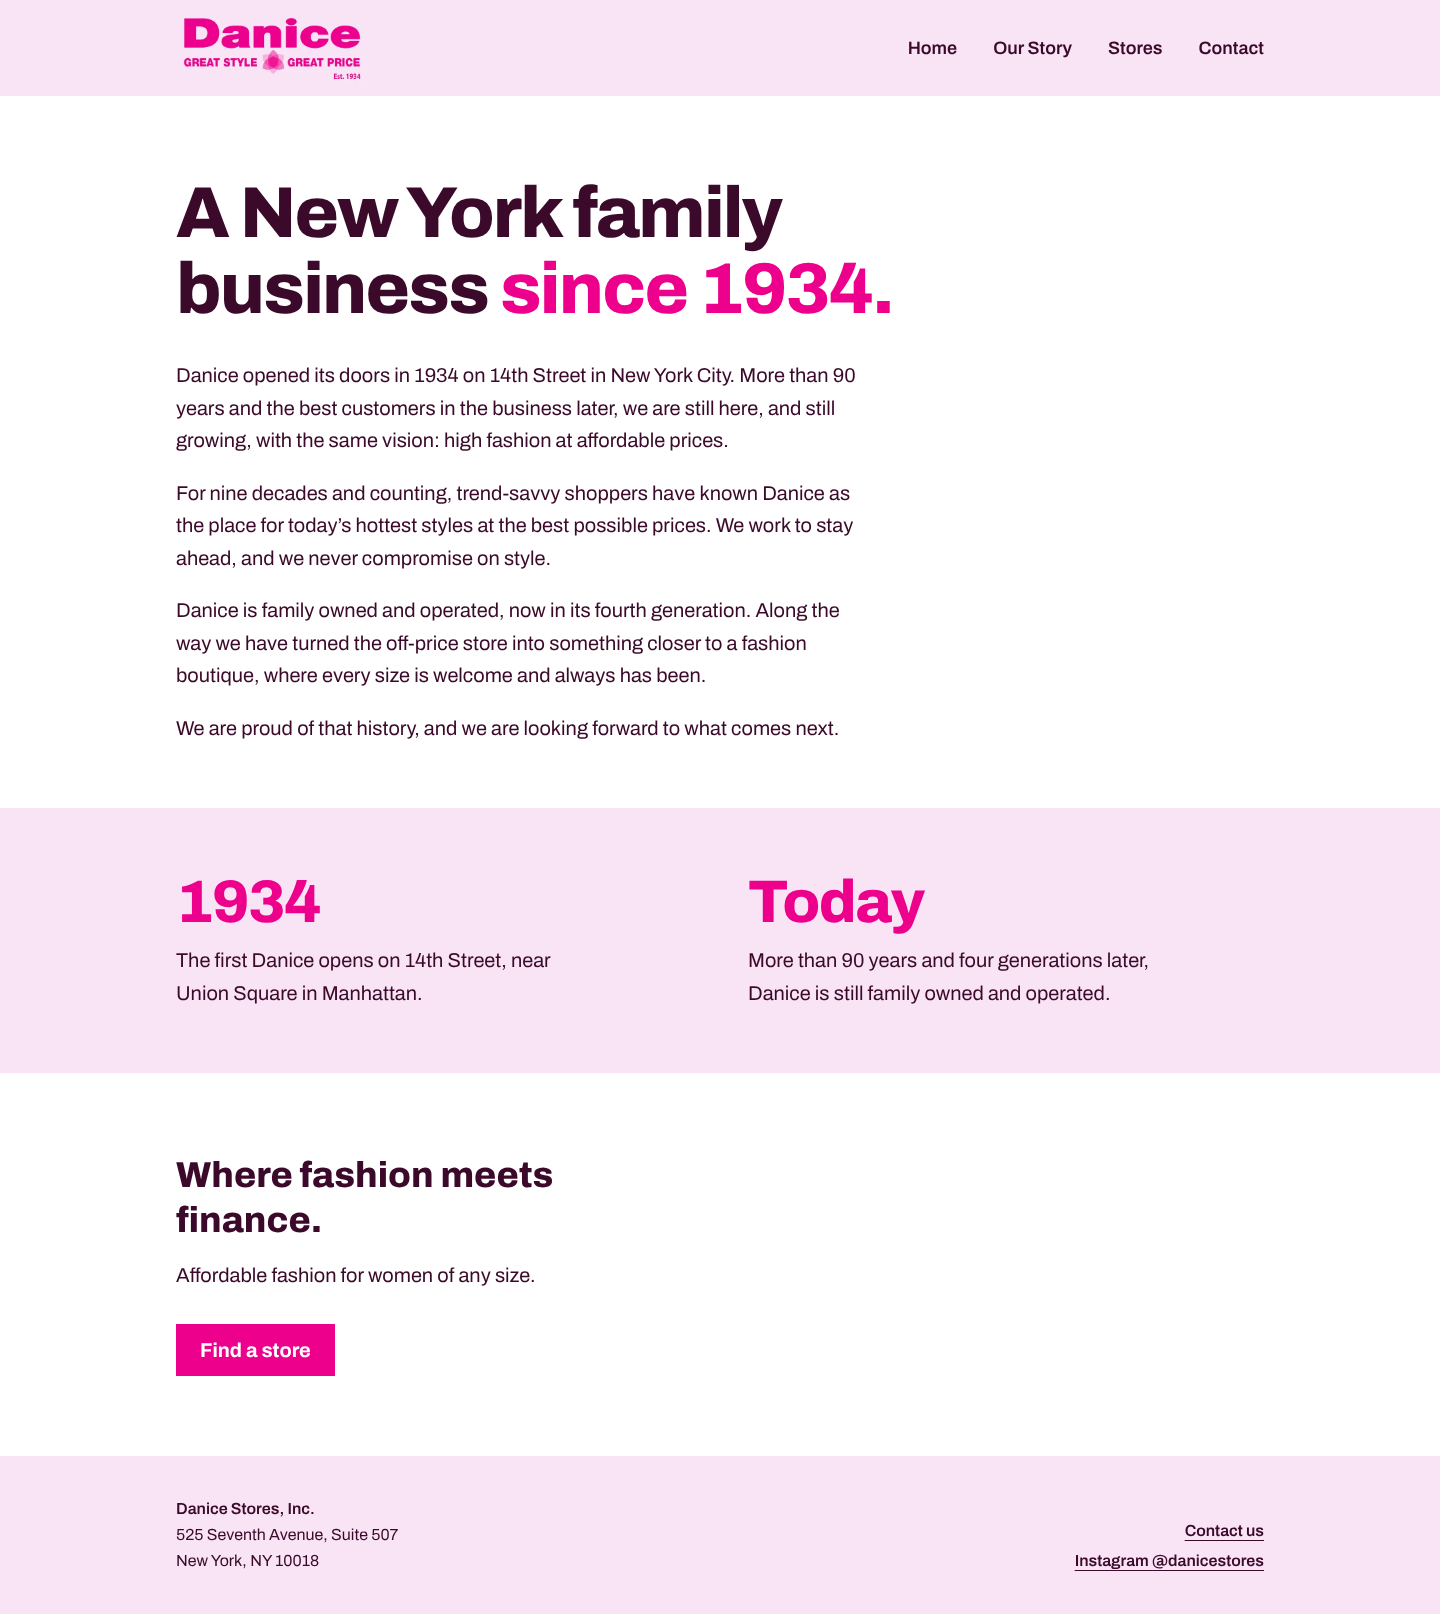
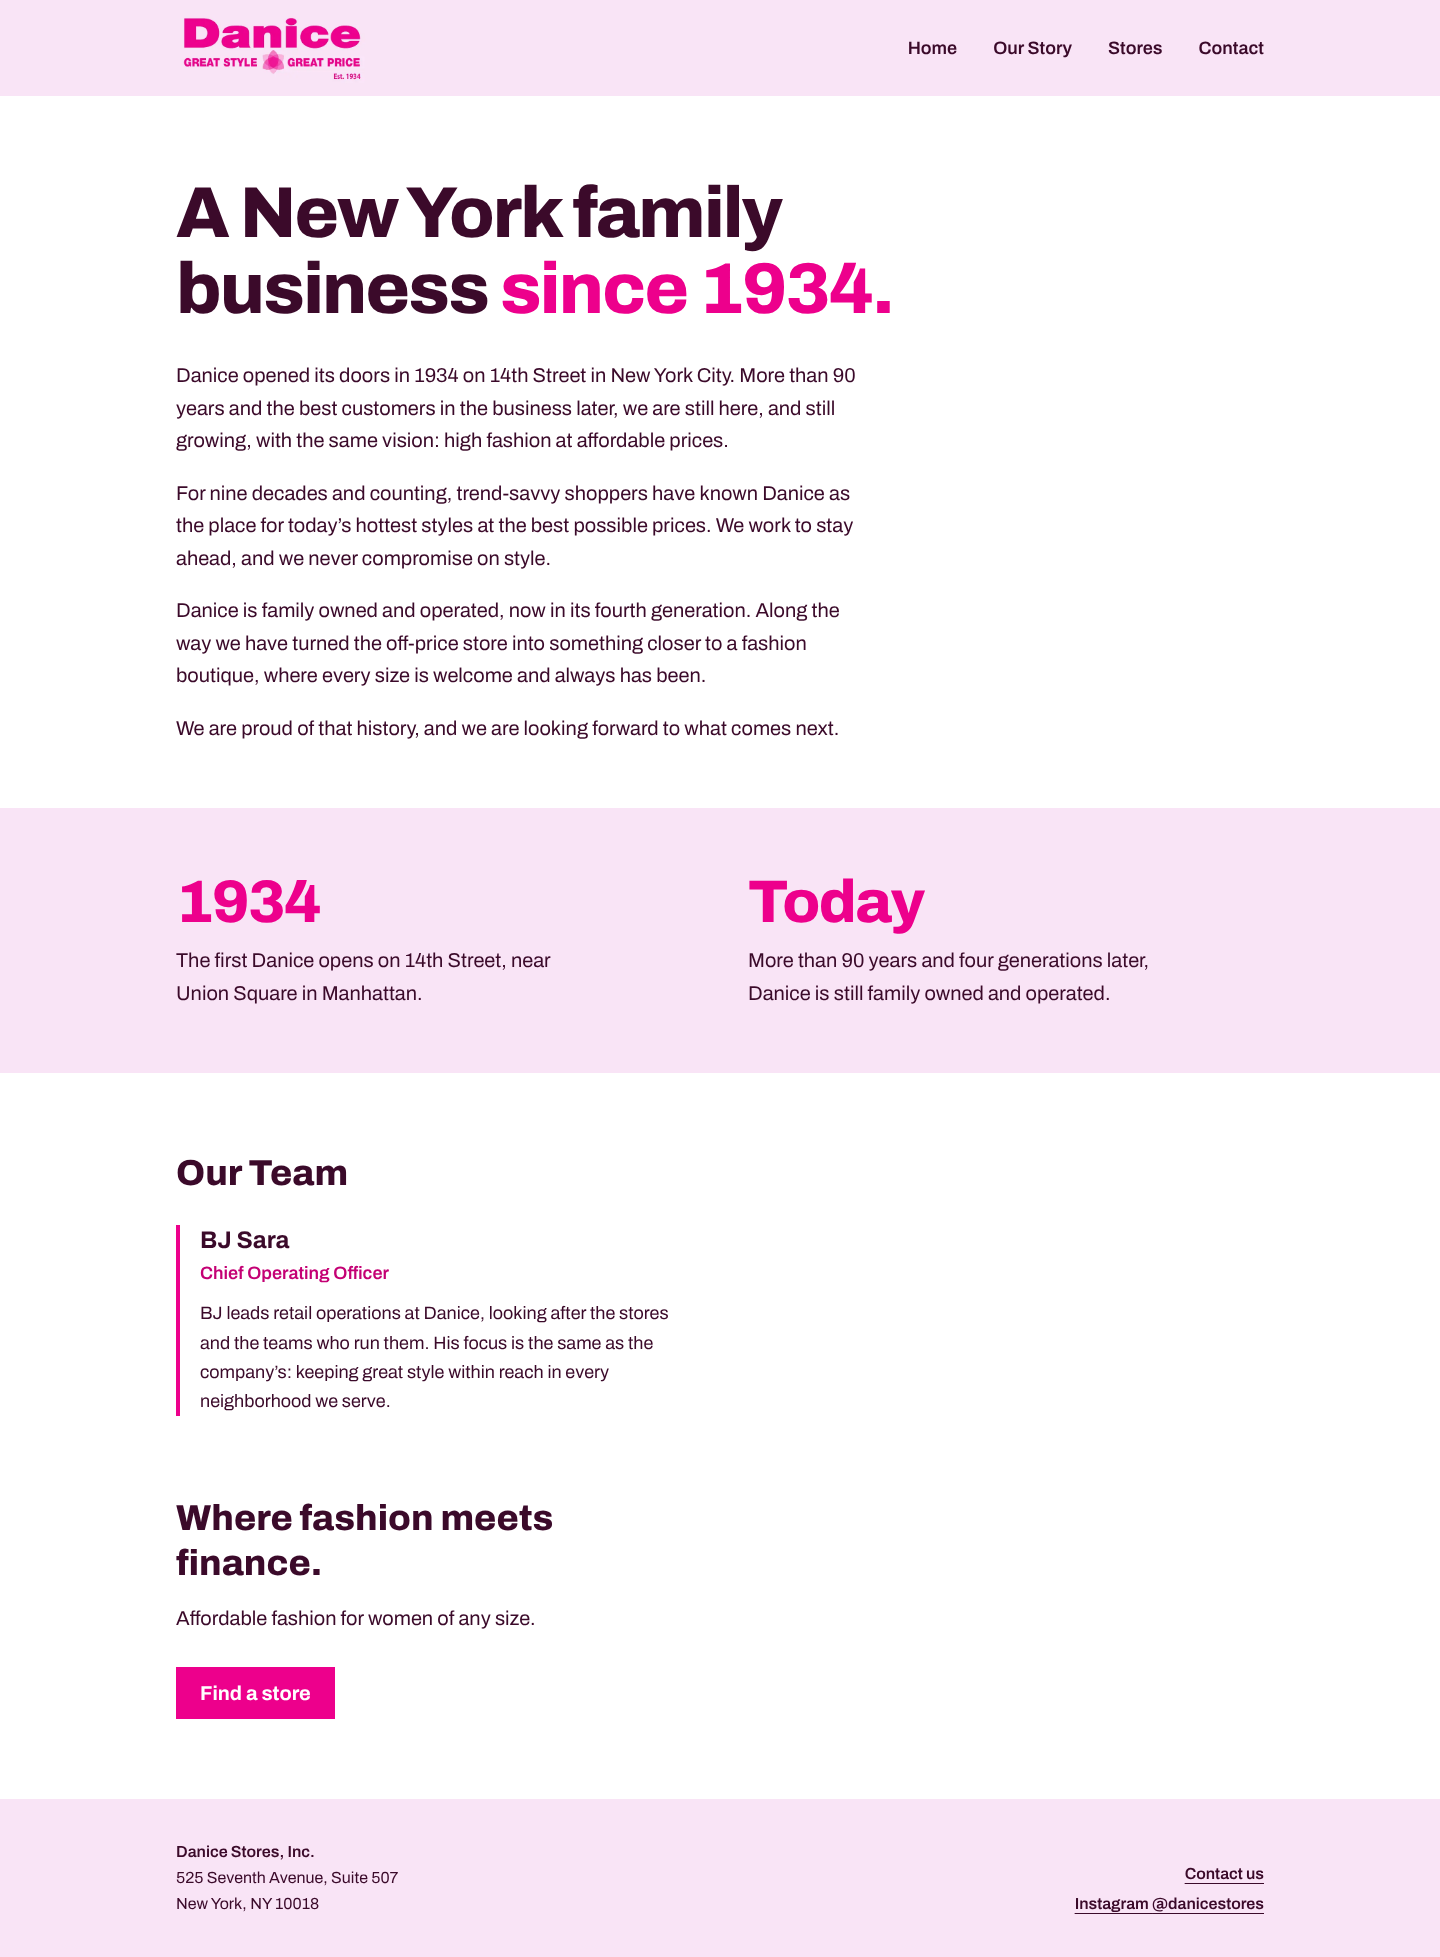
Add an Our Team section with BJ Sara to the Our Story page
Title and wording come from public listings and need his approval
before launch.

Claude-Session: https://claude.ai/code/session_01GBwygx9tMhKkzG3j5ZdV8Z

diff --git a/app/our-story/page.tsx b/app/our-story/page.tsx
@@ -1,5 +1,6 @@
 import type { Metadata } from "next";
 import { Button } from "@/components/Button";
+import { company } from "@/data/company";
 
 export const metadata: Metadata = {
   title: "Our Story",
@@ -70,6 +71,19 @@ export default function OurStory() {
             ))}
           </dl>
         </div>
+      </section>
+
+      <section className="mx-auto max-w-6xl px-5 pt-14 sm:px-8 sm:pt-20">
+        <h2 className="text-3xl font-extrabold sm:text-4xl">Our Team</h2>
+        <ul className="mt-8 grid gap-8 md:grid-cols-2">
+          {company.team.map((person) => (
+            <li key={person.name} className="border-l-4 border-magenta pl-5">
+              <h3 className="text-2xl leading-tight font-bold">{person.name}</h3>
+              <p className="mt-1 text-lg font-semibold text-magenta-deep">{person.title}</p>
+              <p className="mt-3 max-w-[48ch] text-lg leading-relaxed">{person.bio}</p>
+            </li>
+          ))}
+        </ul>
       </section>
 
       <section className="mx-auto max-w-6xl px-5 py-14 sm:px-8 sm:py-20">

diff --git a/data/company.ts b/data/company.ts
@@ -20,6 +20,15 @@ export const company = {
     instagram: { handle: "@danicestores", url: "https://www.instagram.com/danicestores" },
     linkedin: { url: "https://www.linkedin.com/company/danice-stores-inc" },
   },
+  // Shown under "Our Team" on the Our Story page. Title and wording come from
+  // public listings and must be approved by the person named before launch.
+  team: [
+    {
+      name: "BJ Sara",
+      title: "Chief Operating Officer",
+      bio: "BJ leads retail operations at Danice, looking after the stores and the teams who run them. His focus is the same as the company\u2019s: keeping great style within reach in every neighborhood we serve.",
+    },
+  ],
   unverified: {
     officePhone: "(212) 776-1001",
     customerServiceEmail: "customerservice@danicestores.com",
